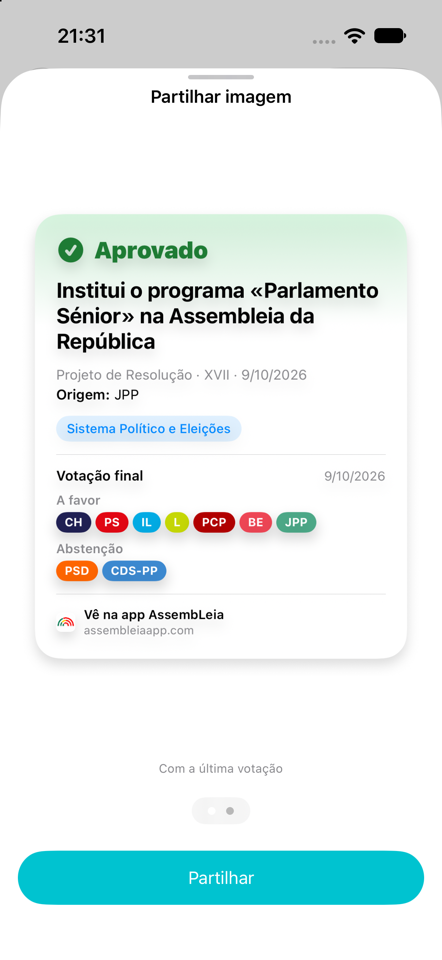
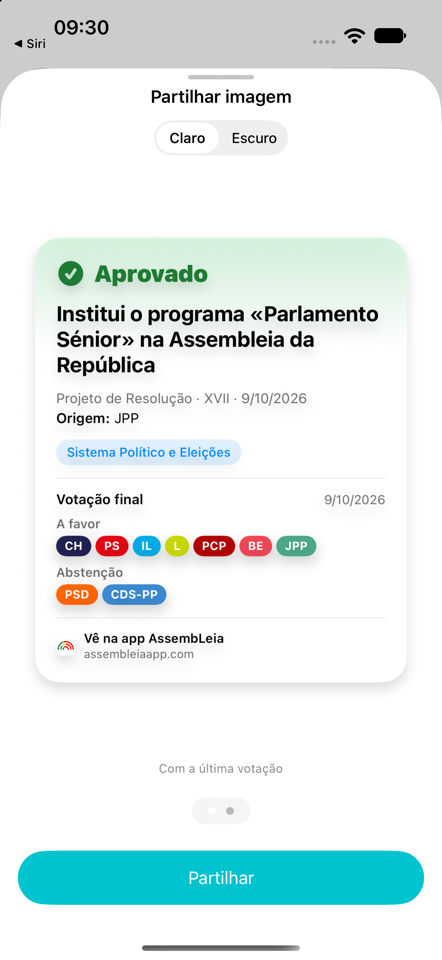
Screenshots: the share sheet with the Claro / Escuro choice, light and dark

diff --git a/index.html b/index.html
@@ -198,7 +198,8 @@
           <figure class="phone-wrap">
             <div class="phone-frame">
               <picture>
-                <img src="screenshots/partilha.png?v=6" alt="Imagem de partilha de uma iniciativa, com o resultado da votação" class="phone-screen" loading="lazy" width="148" height="320">
+                <source srcset="screenshots/partilha-dark.png?v=7" media="(prefers-color-scheme: dark)">
+                <img src="screenshots/partilha.png?v=7" alt="Imagem de partilha de uma iniciativa, em claro ou escuro, com o resultado da votação" class="phone-screen" loading="lazy" width="148" height="320">
               </picture>
             </div>
             <figcaption class="phone-label">Partilha</figcaption>
